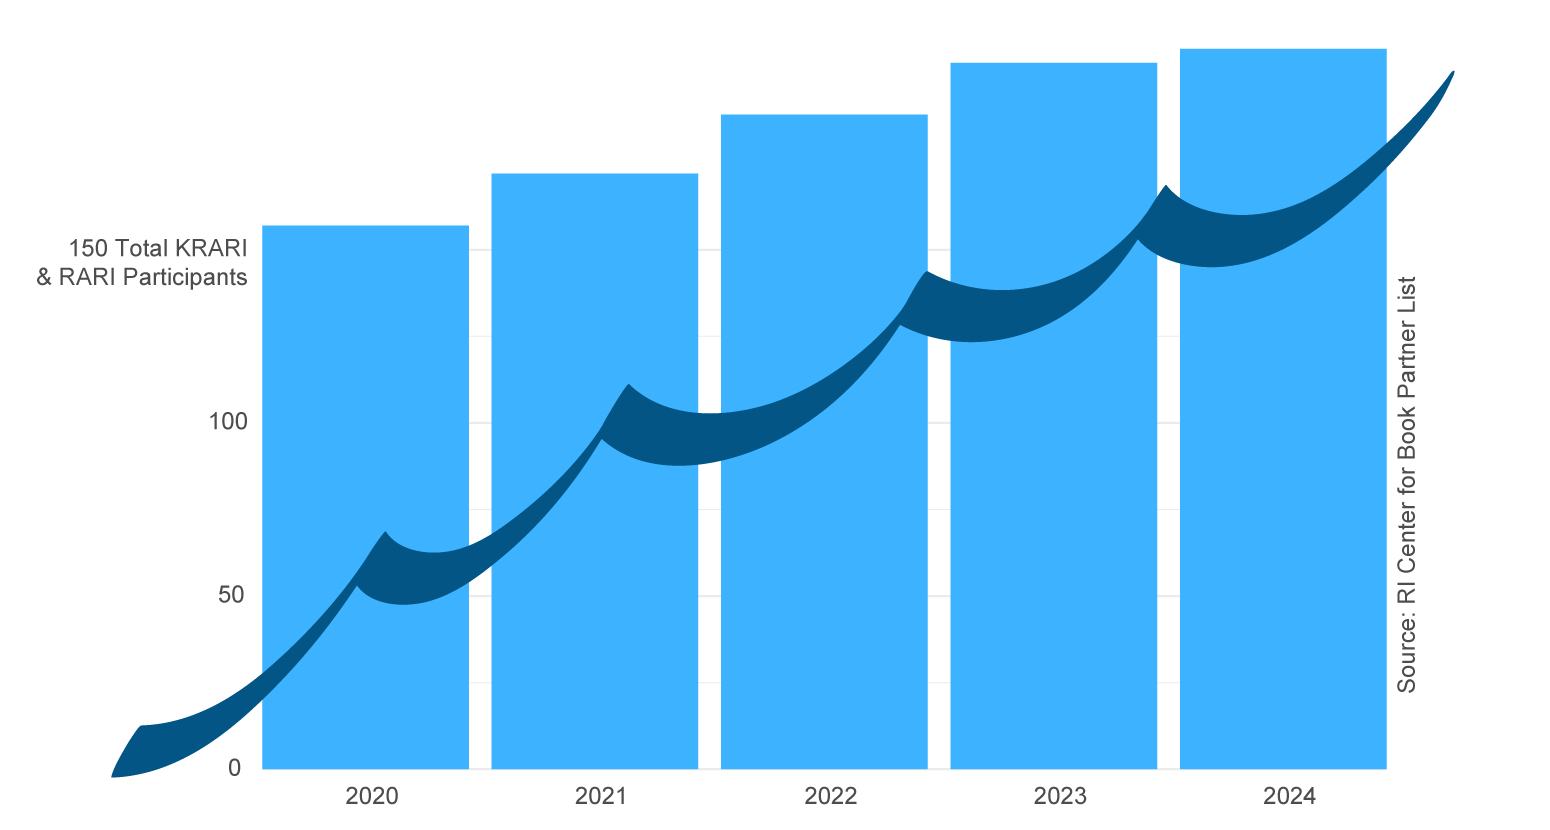
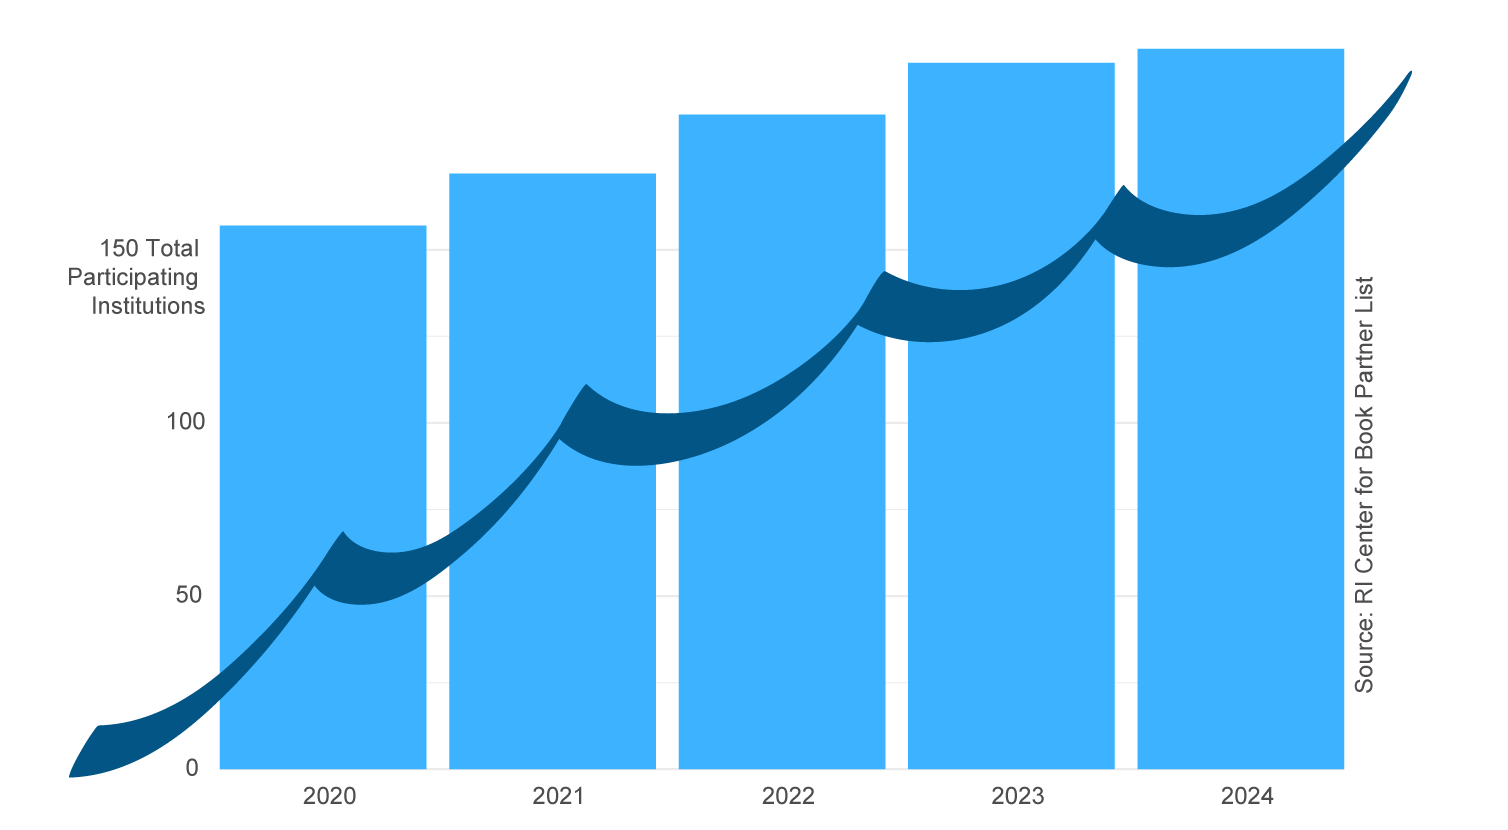
final edits

diff --git a/ri-centerforbook/index.html b/ri-centerforbook/index.html
@@ -31,9 +31,9 @@
         teachers, librarians, and Rhode Islanders everywhere in between will eventually
         read. </p>
     <p>
-        Originally founded in 2003, the RI Center for the Book is the Rhode Island
-        branch of the National Center for the Book, which is housed under the
-        Library of Congress, and has a history of partnership with Ocean State institutions.
+        Originally founded in 2003, the RI Center for the Book is the state's
+        branch of the National Center for the Book, housed under the
+        Library of Congress. The Center has a history of partnership with Ocean State institutions.
         From 2011 to 2018, the Rhode Island Council for the Humanities hosted and funded
         the RICFB, until the Center became an independent, 501(c)3 nonprofit organization.
         The following year, the Center moved to operate under the Pell Center for
@@ -41,9 +41,10 @@
         an independent nonprofit. Since then, the Center has expanded across the state,
         primarily through its two flagship programs, Reading Across Rhode Island and its
         little sibling, which has the same goals for a younger audience,
-        Kids Reading Across Rhode Island. The number of schools and libraries who participate across both programs
-        has steadily increased since 2020, with nearly 200 total institutions involved
-        last year, as visible in the bar chart above the title.
+        Kids Reading Across Rhode Island. The number of schools and libraries who participate
+        across both programs has steadily increased since 2020, with nearly 200
+        total institutions involved in either KRARI or RARI last year, as the
+        chart at the top of the page illustrates.
     </p>
     <p>
         As of the 2024-2025 school year, nearly half of all public schools in Rhode
